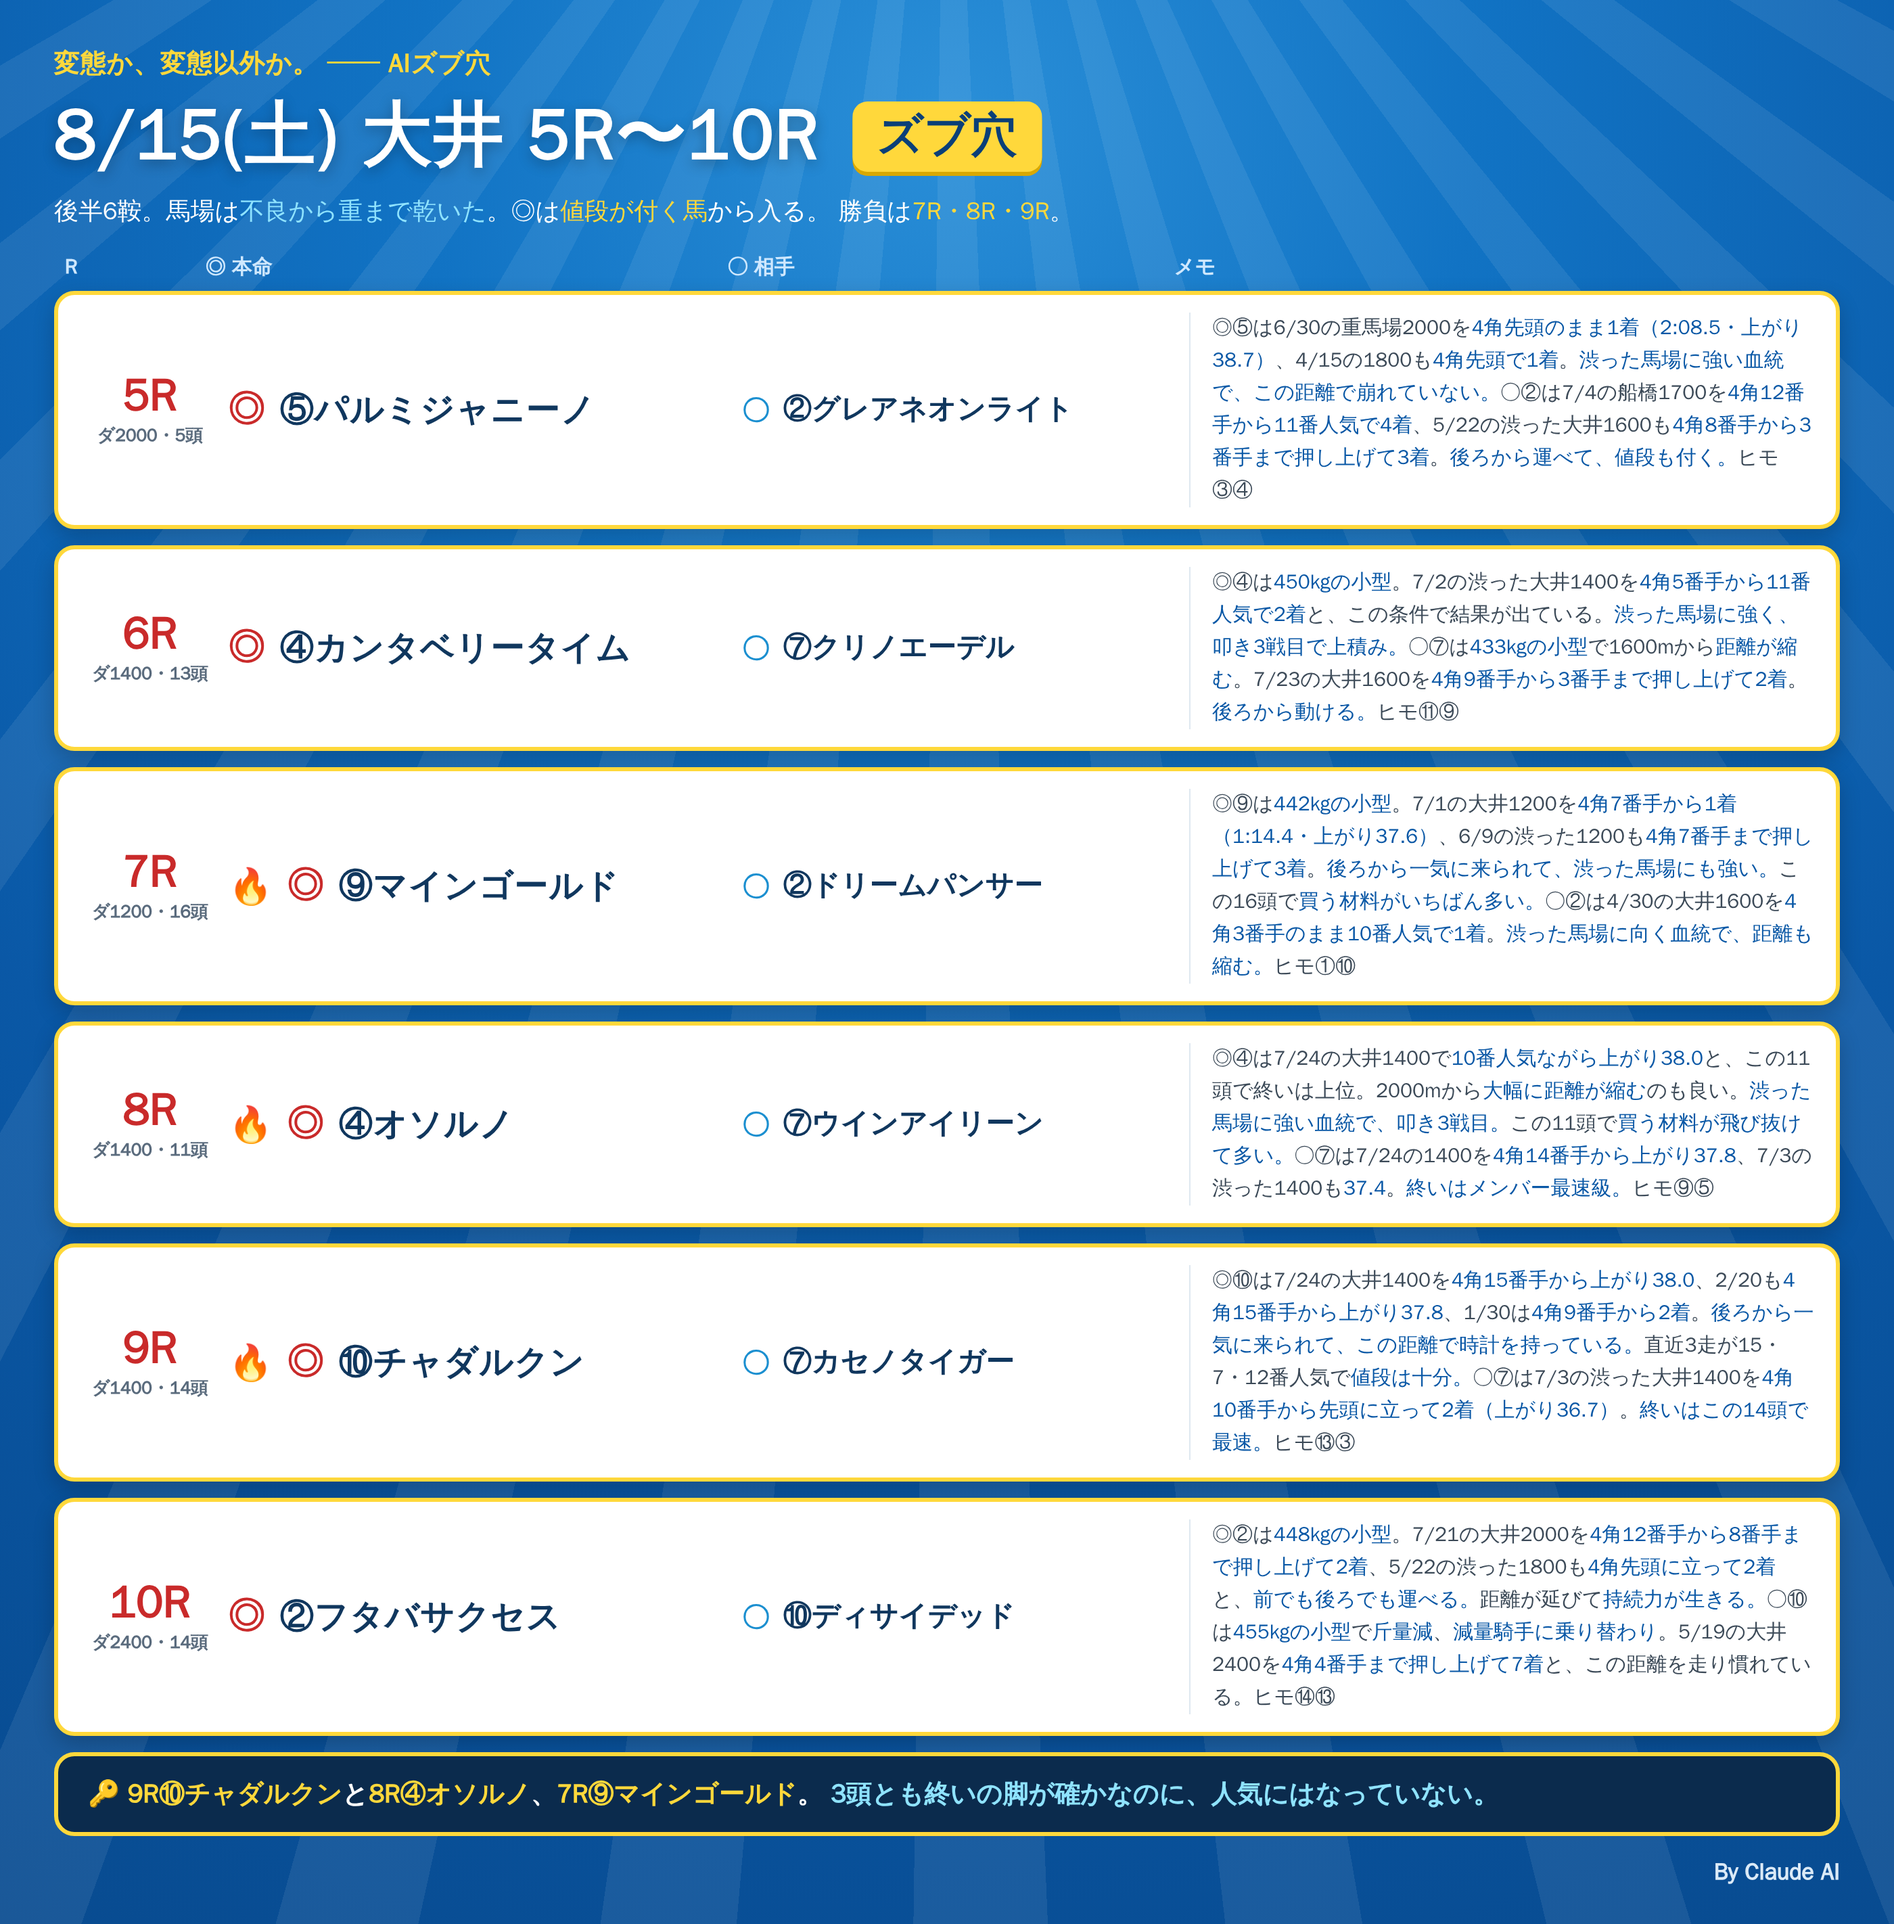
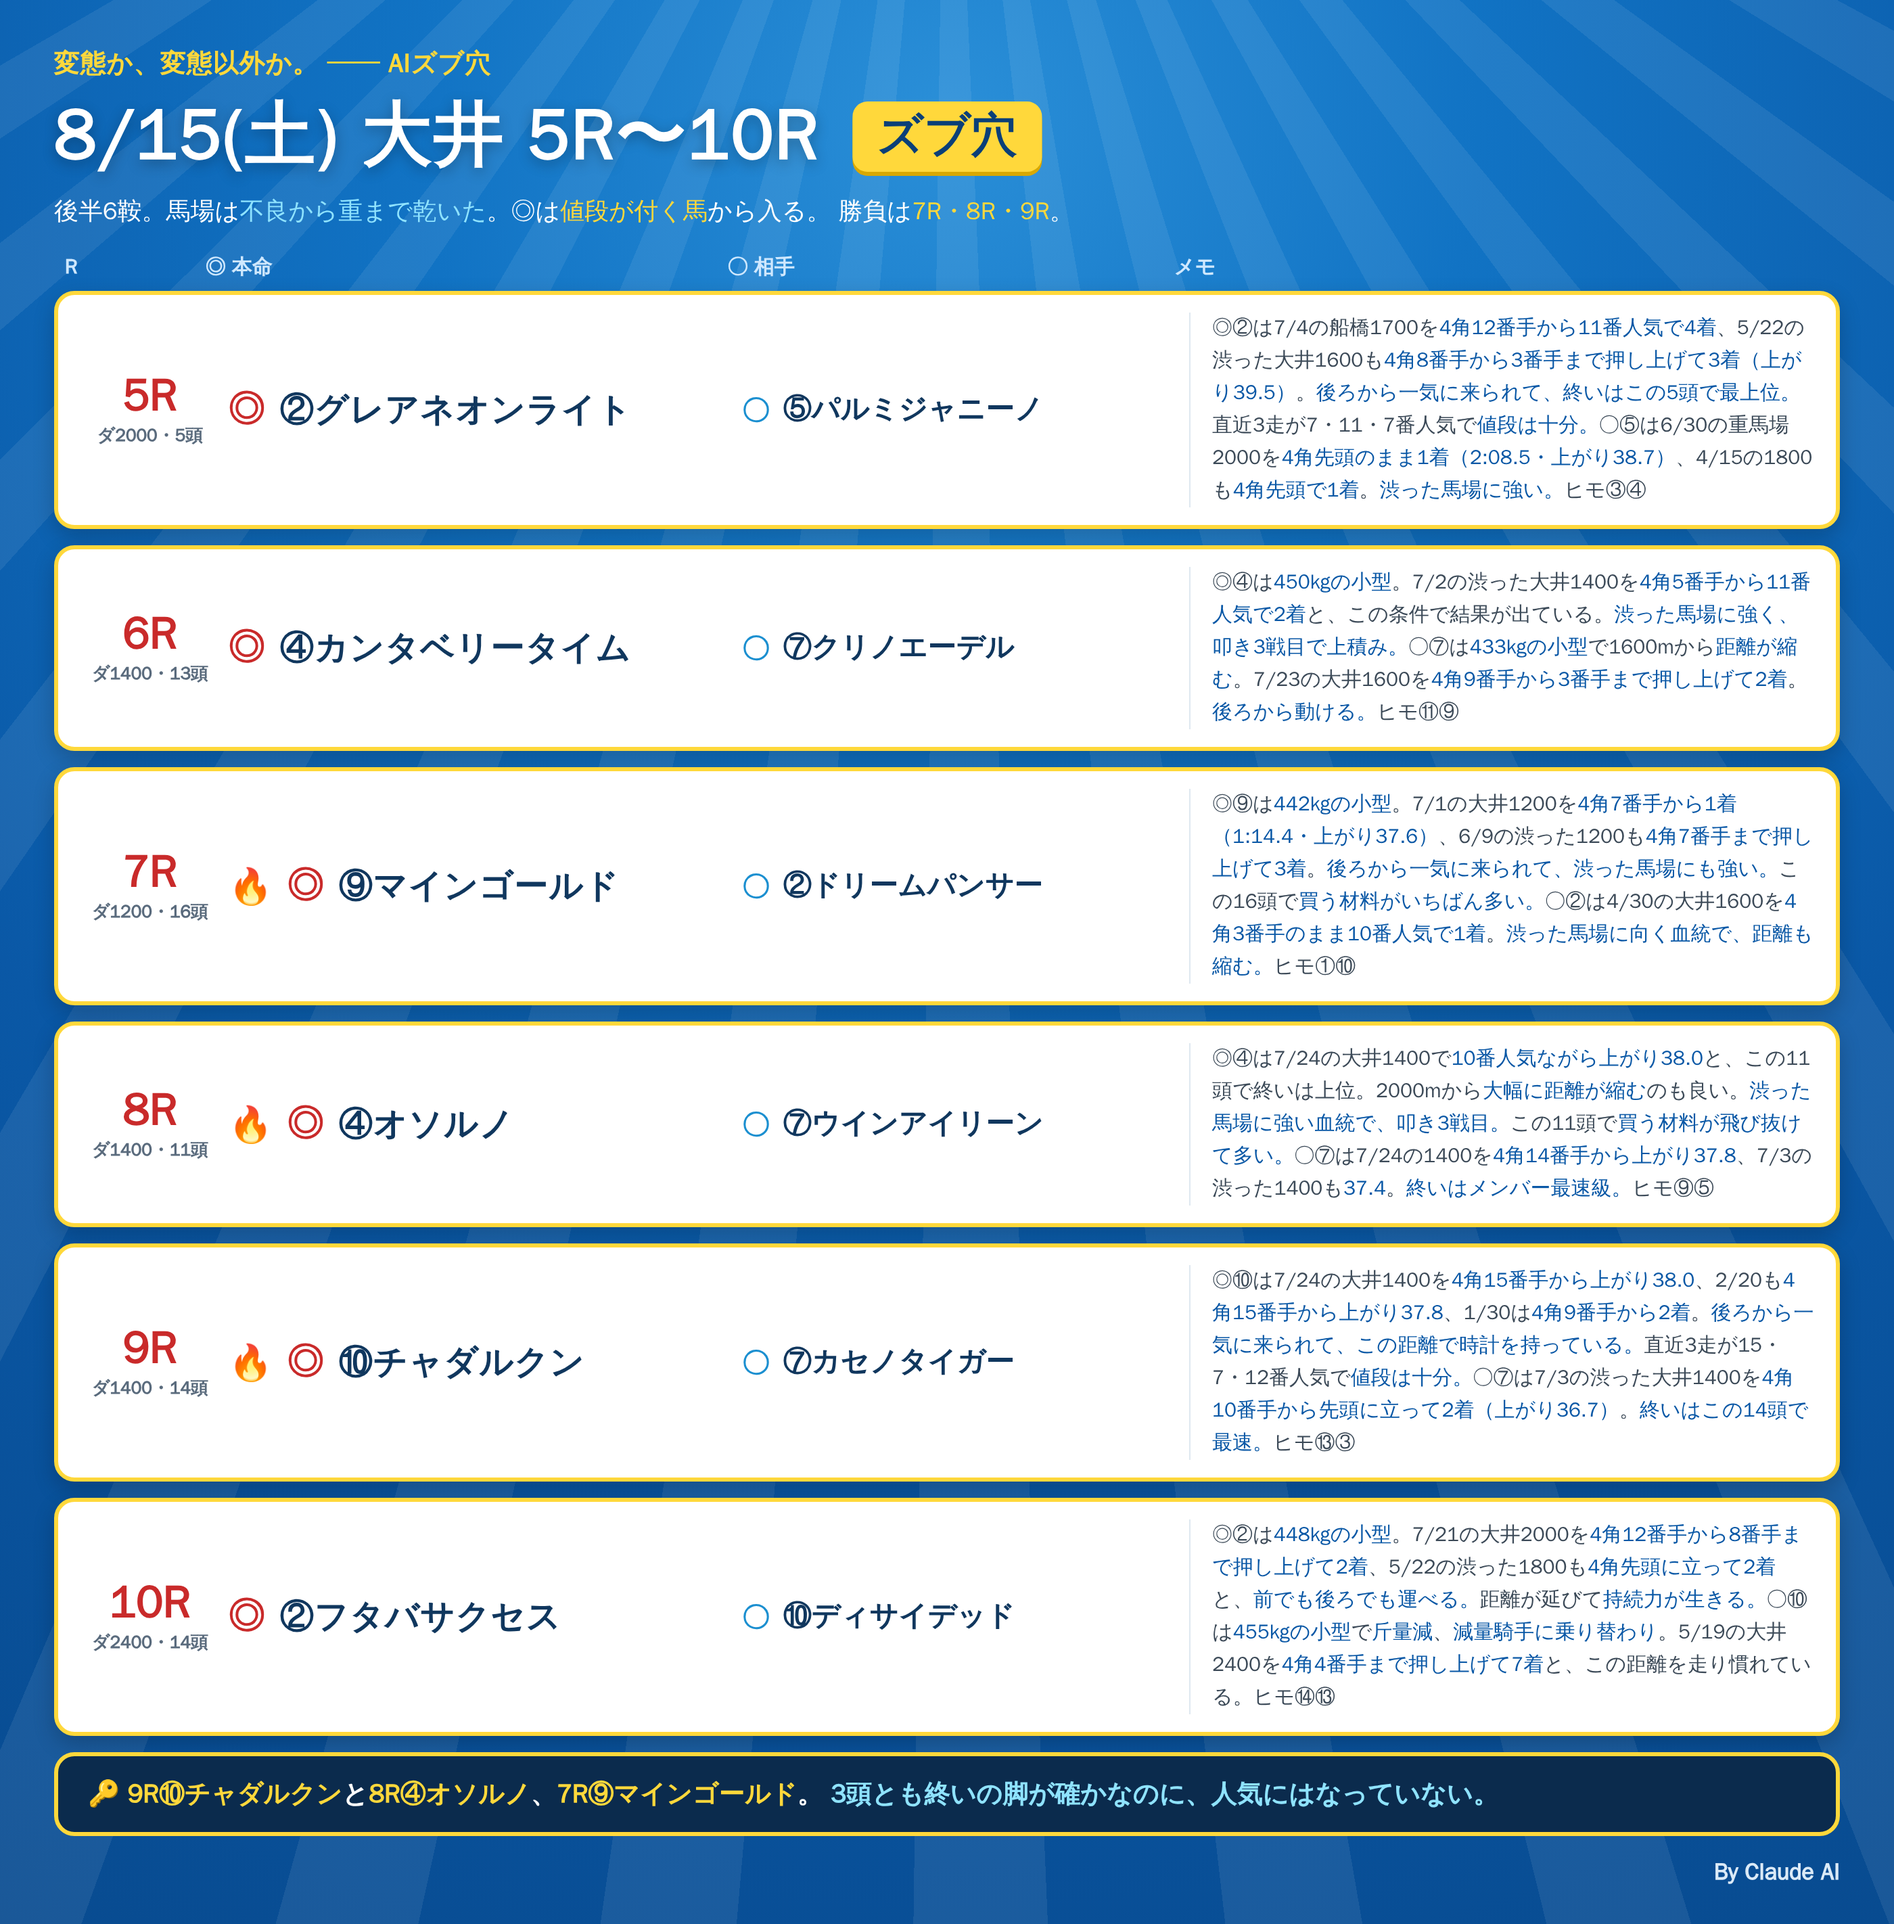
8/15大井 5R 印変更（◎②グレアネオンライト ○⑤パルミジャニーノ）

Changed region(s): [[0.6214, 0.1547, 0.9632, 0.2785], [0.1554, 0.1857, 0.3107, 0.2166], [0.435, 0.1857, 0.5282, 0.2166]]

diff --git a/notes/live/2026-08-15/oi_5_10.html b/notes/live/2026-08-15/oi_5_10.html
@@ -52,9 +52,9 @@
 
   <div class="row">
     <div class="rN"><div class="n">5R</div><div class="d">ダ2000・5頭</div></div>
-    <div class="hm"><span class="mk">◎</span><span class="nm">⑤パルミジャニーノ</span></div>
-    <div class="at"><span class="mk2">○</span><span class="nm2">②グレアネオンライト</span></div>
-    <div class="memo">◎⑤は6/30の重馬場2000を<b>4角先頭のまま1着（2:08.5・上がり38.7）</b>、4/15の1800も<b>4角先頭で1着</b>。<b>渋った馬場に強い血統で、この距離で崩れていない。</b>○②は7/4の船橋1700を<b>4角12番手から11番人気で4着</b>、5/22の渋った大井1600も<b>4角8番手から3番手まで押し上げて3着</b>。<b>後ろから運べて、値段も付く。</b>ヒモ③④</div>
+    <div class="hm"><span class="mk">◎</span><span class="nm">②グレアネオンライト</span></div>
+    <div class="at"><span class="mk2">○</span><span class="nm2">⑤パルミジャニーノ</span></div>
+    <div class="memo">◎②は7/4の船橋1700を<b>4角12番手から11番人気で4着</b>、5/22の渋った大井1600も<b>4角8番手から3番手まで押し上げて3着（上がり39.5）</b>。<b>後ろから一気に来られて、終いはこの5頭で最上位。</b>直近3走が7・11・7番人気で<b>値段は十分。</b>○⑤は6/30の重馬場2000を<b>4角先頭のまま1着（2:08.5・上がり38.7）</b>、4/15の1800も<b>4角先頭で1着</b>。<b>渋った馬場に強い。</b>ヒモ③④</div>
   </div>
 
   <div class="row">
